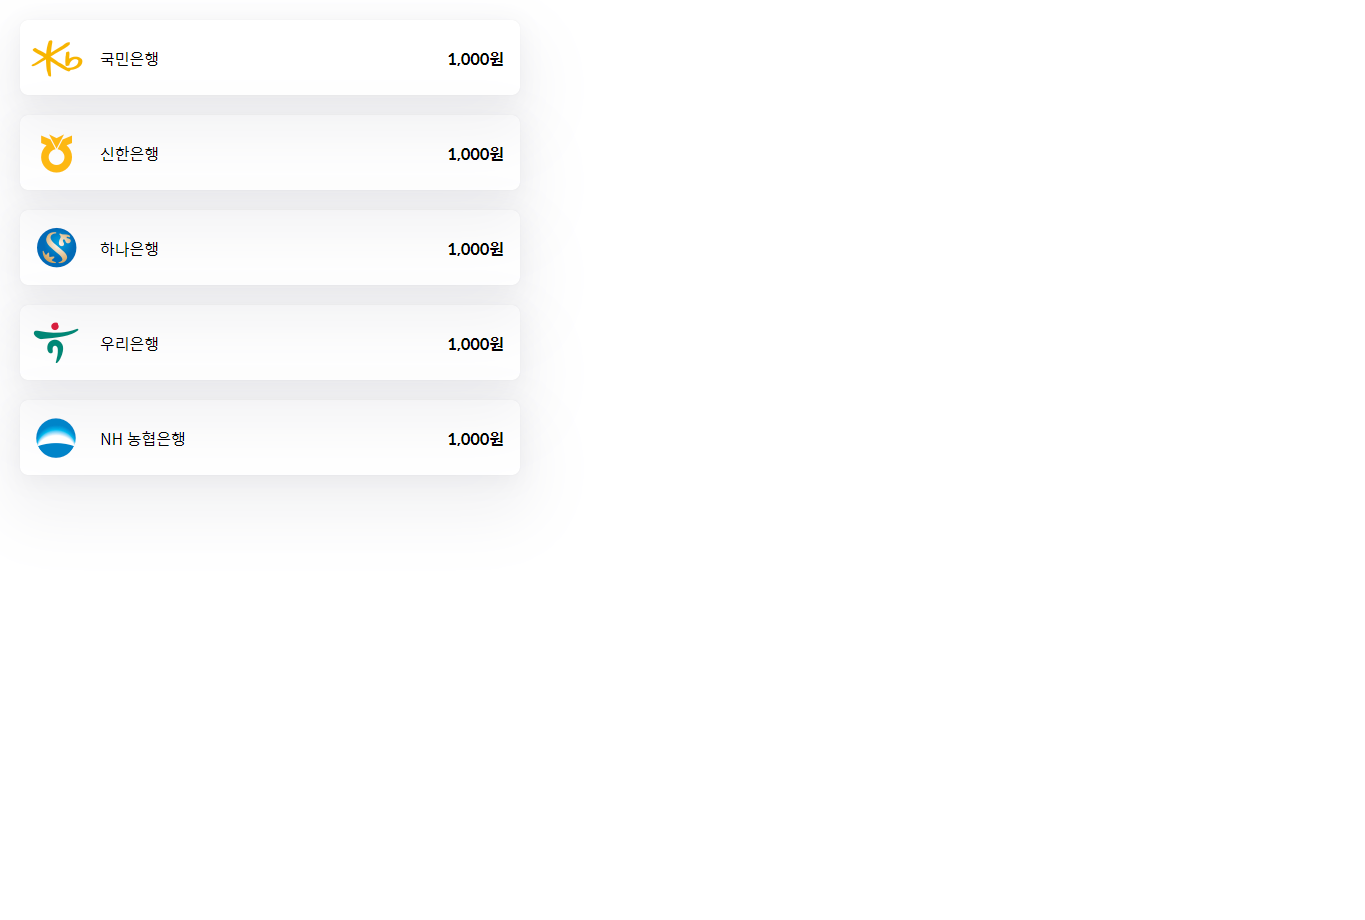
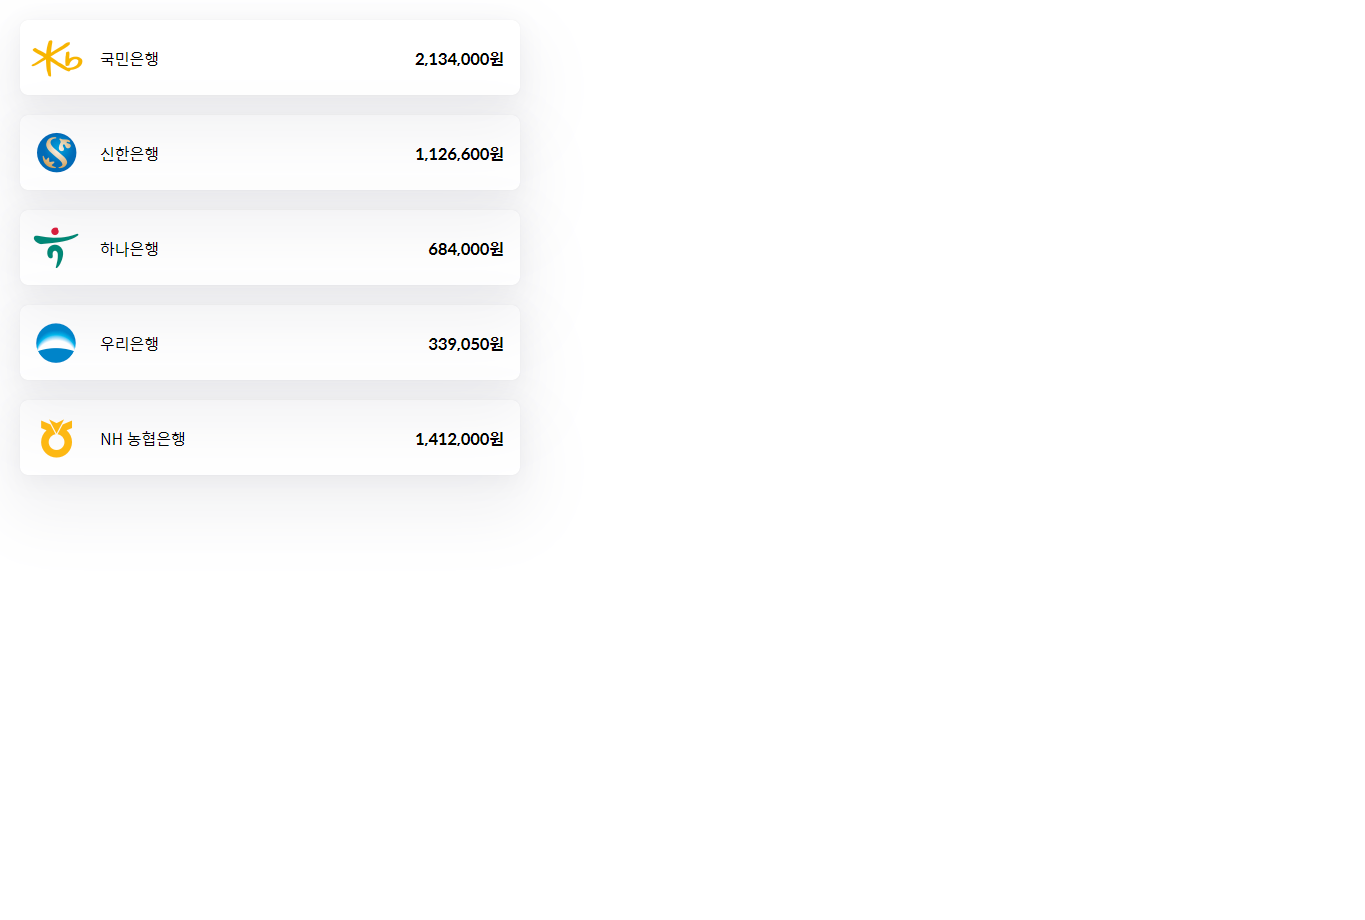
금액, 사진 수정

diff --git a/[과제] 토스 흉내내기/index.html b/[과제] 토스 흉내내기/index.html
@@ -35,23 +35,23 @@
 <body>
 	<div>
 		<img src="logo_1.png" alt="">
-		<p class="bankname">국민은행<span>1,000원</span></p>
-	</div>
-	<div>
-		<img src="logo_2.png" alt="">
-		<p class="bankname">신한은행<span>1,000원</span></p>
+		<p class="bankname">국민은행<span>2,134,000원</span></p>
 	</div>
 	<div>
 		<img src="logo_3.png" alt="">
-		<p class="bankname">하나은행<span>1,000원</span></p>
+		<p class="bankname">신한은행<span>1,126,600원</span></p>
 	</div>
 	<div>
 		<img src="logo_4.png" alt="">
-		<p class="bankname">우리은행<span>1,000원</span></p>
+		<p class="bankname">하나은행<span>684,000원</span></p>
 	</div>
 	<div>
 		<img src="logo_5.png" alt="">
-		<p class="bankname">NH 농협은행<span>1,000원</span></p>
+		<p class="bankname">우리은행<span>339,050원</span></p>
+	</div>
+	<div>
+		<img src="logo_2.png" alt="">
+		<p class="bankname">NH 농협은행<span>1,412,000원</span></p>
 	</div>
 </body>
 </html>
